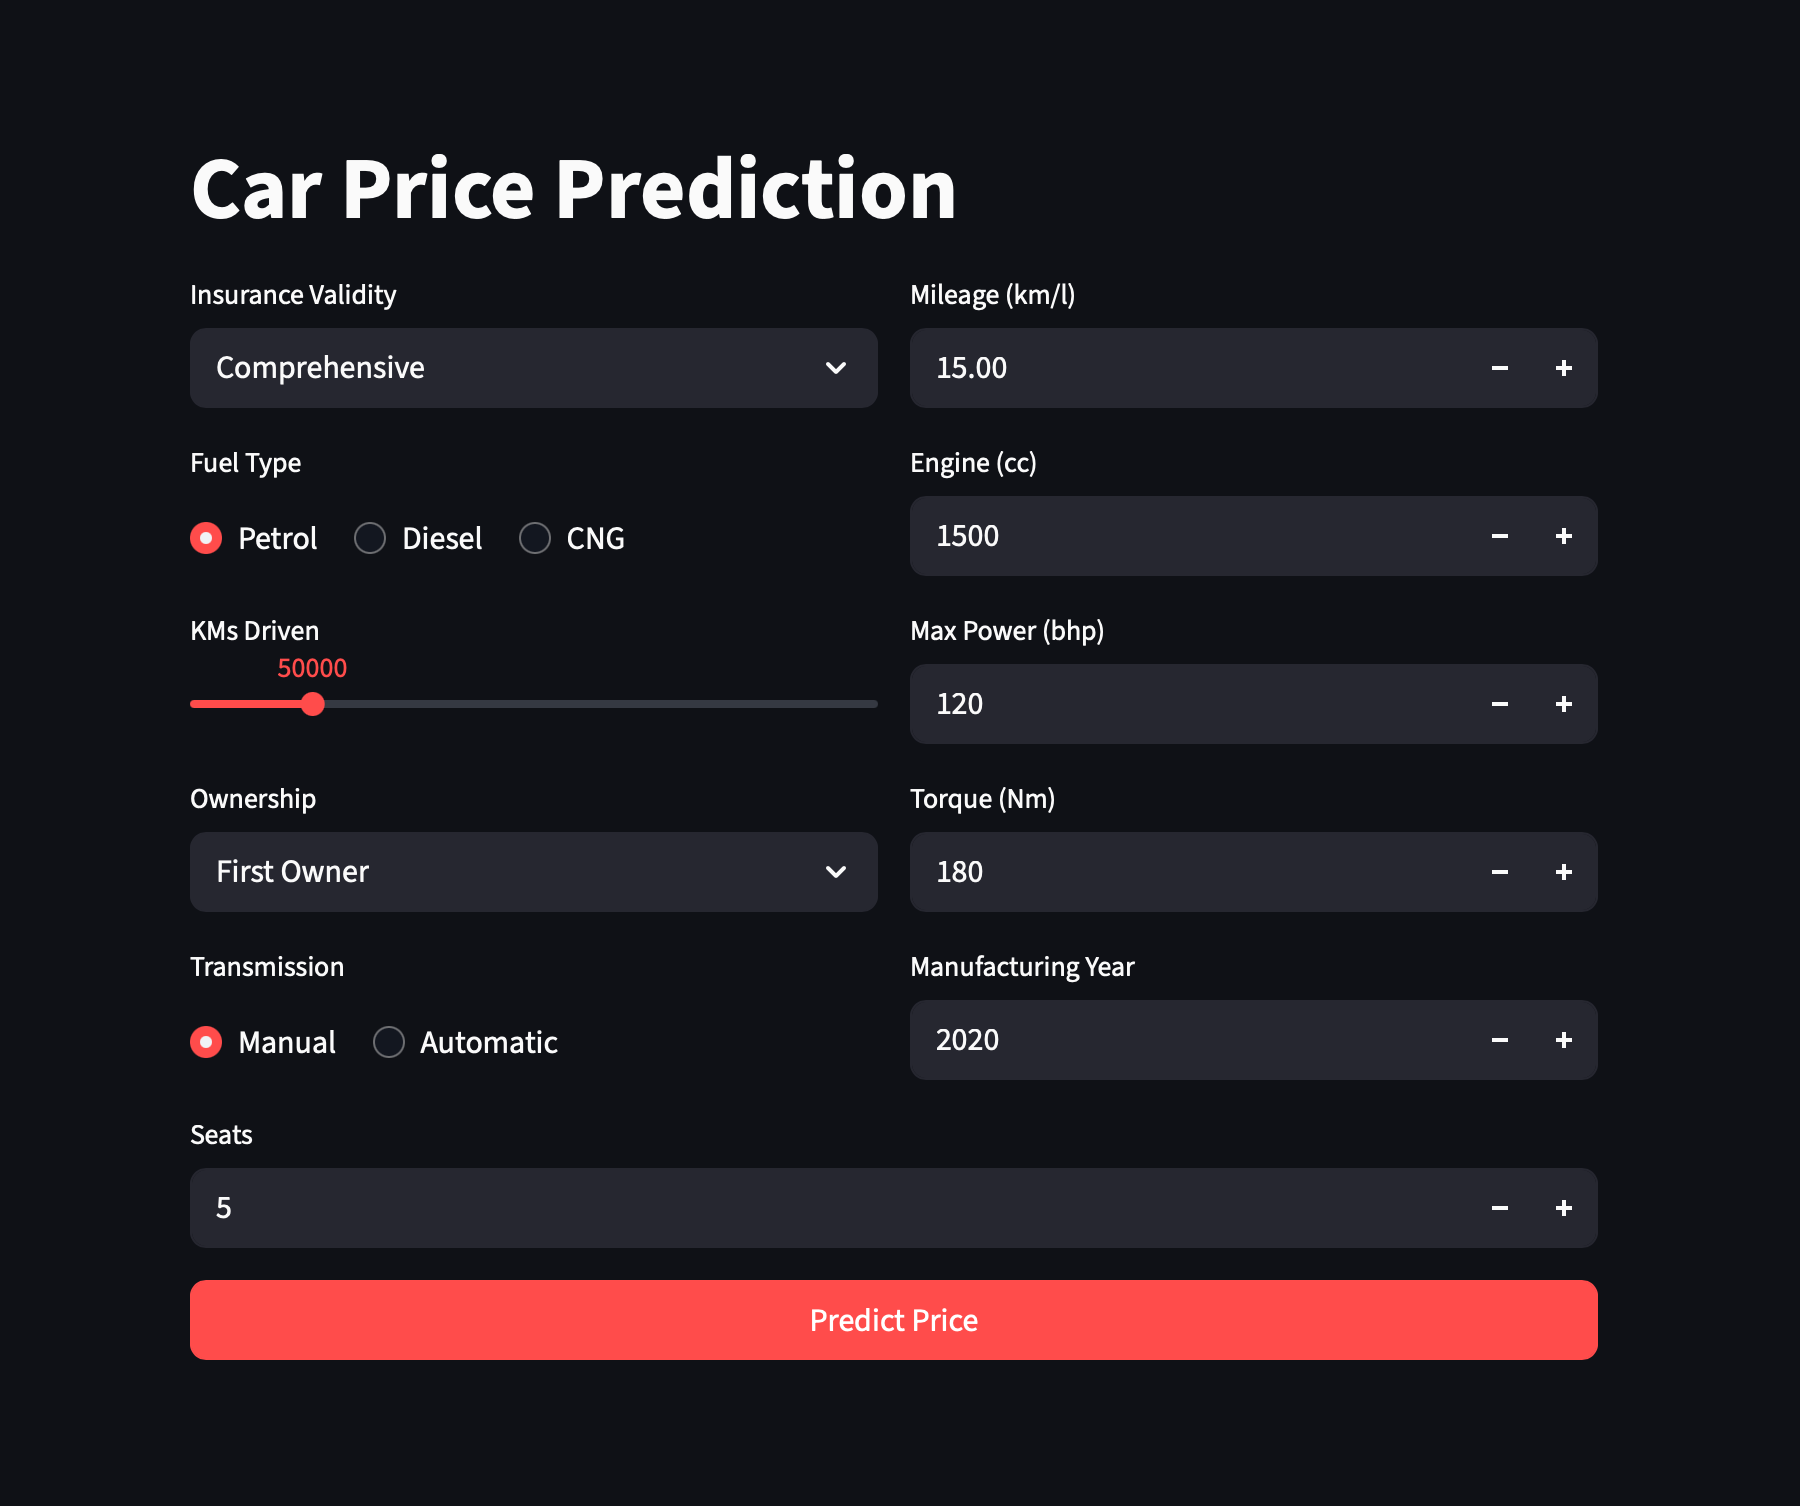
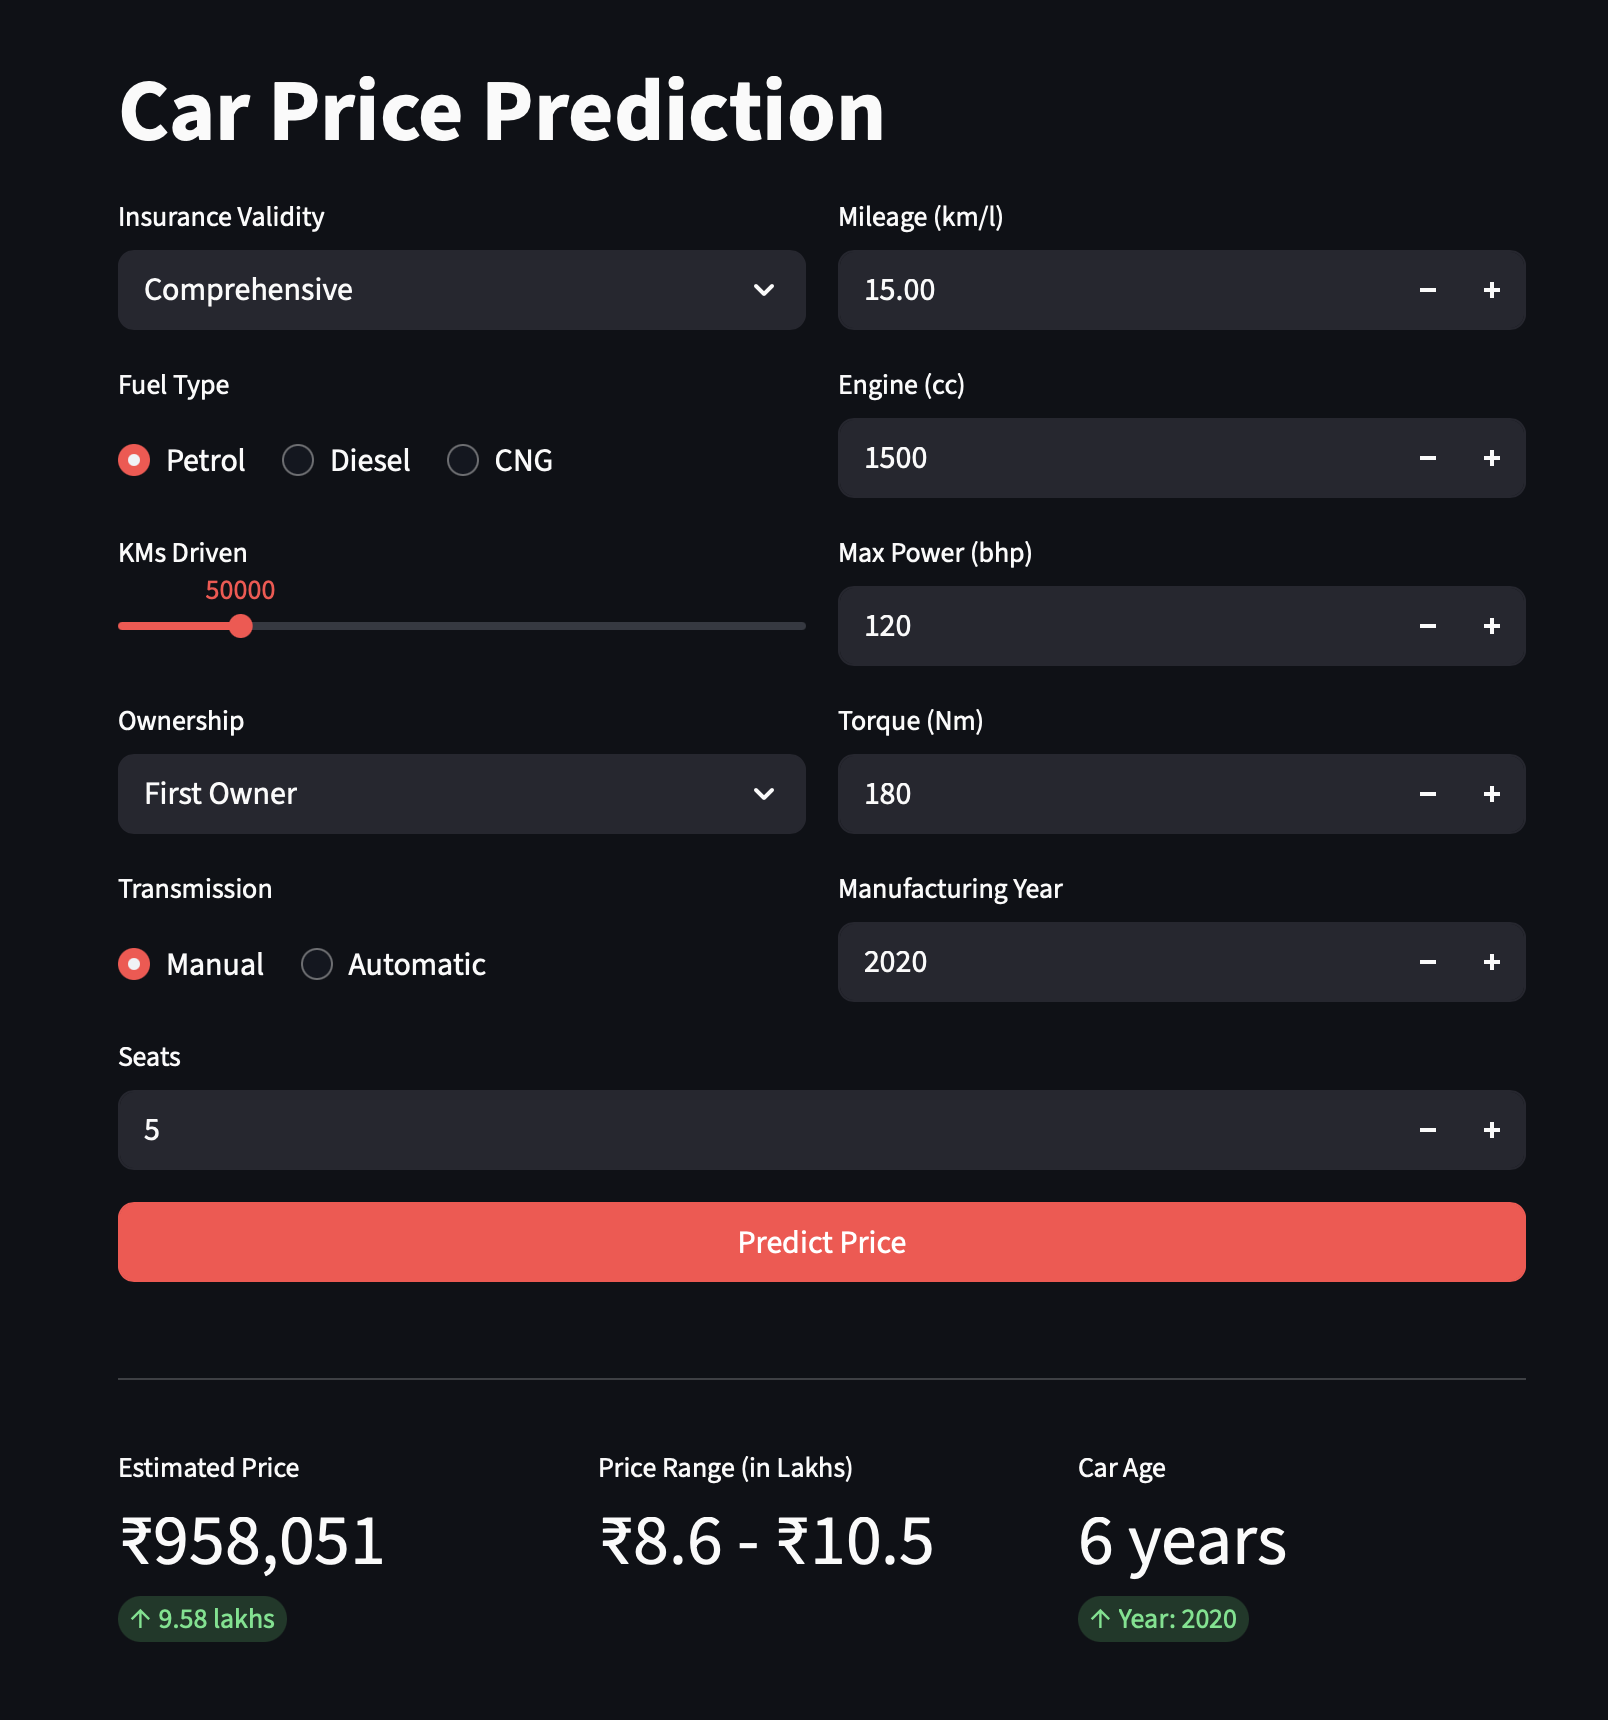
Use current year for manufacturing input and age
Import the current year from datetime and use it to set the max value for the 'Manufacturing Year' input and to compute car_age instead of the hardcoded 2024. This keeps the prediction UI up-to-date without manual edits. Also updates the bundled image (image.png).

diff --git a/Predictapp.py b/Predictapp.py
@@ -1,3 +1,5 @@
+from datetime import date
+
 import streamlit as st
 import pickle as pkl
 import numpy as np
@@ -17,6 +19,7 @@ d4 = {'Manual':0, 'Automatic':1}
 
 st.title('Car Price Prediction')
 
+year = date.today().year
 # Create two columns for inputs
 col1, col2 = st.columns(2)
 
@@ -32,12 +35,12 @@ with col2:
     val7 = st.number_input('Engine (cc)', min_value=500, max_value=5000, value=1500, step=50)
     val8 = st.number_input('Max Power (bhp)', min_value=50, max_value=500, value=120, step=5)
     val9 = st.number_input('Torque (Nm)', min_value=100, max_value=500, value=180, step=10)
-    val10 = st.number_input('Manufacturing Year', min_value=2000, max_value=2024, value=2020, step=1)
+    val10 = st.number_input('Manufacturing Year', min_value=2000, max_value=year, value=2020, step=1)
 
 val11 = st.number_input('Seats', min_value=2, max_value=8, value=5, step=1)
 
 # Calculate car age
-car_age = 2024 - val10
+car_age = year - val10
 
 # Predict button
 if st.button(' Predict Price', use_container_width=True, type='primary'):
